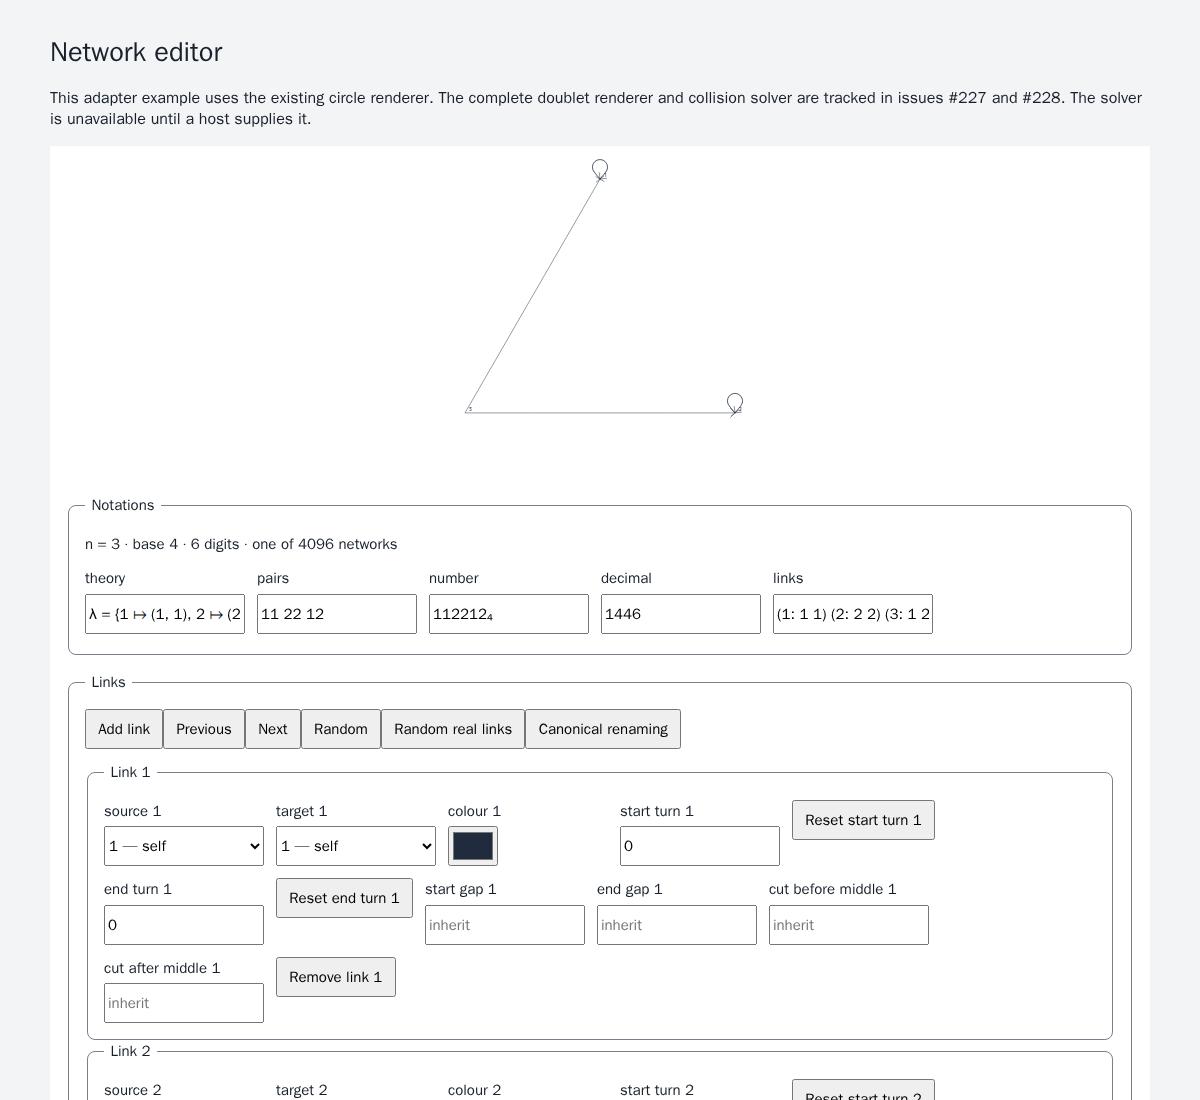
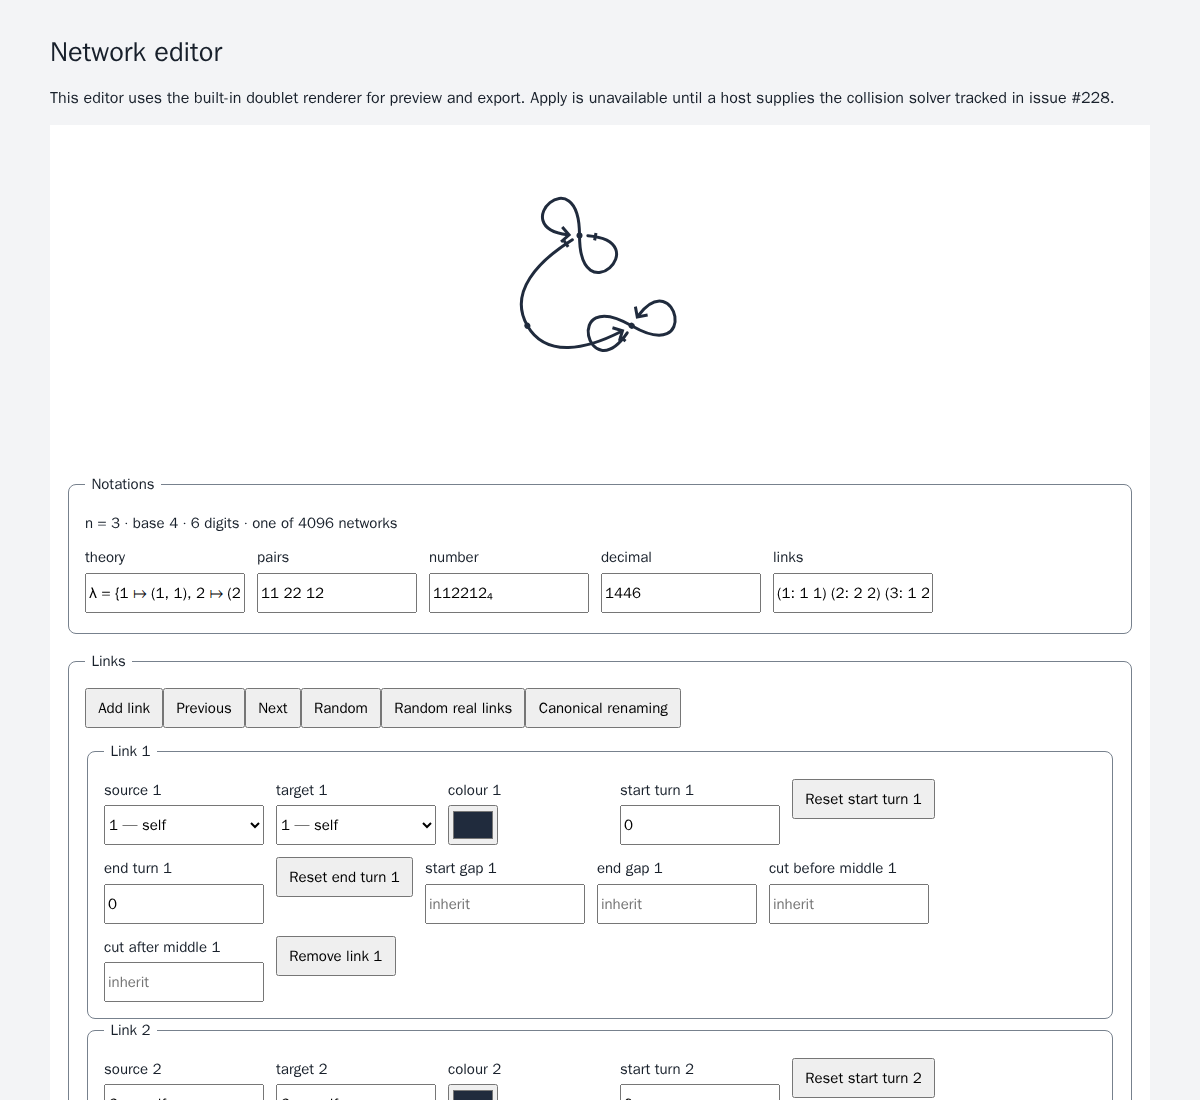
Bind the editor to the built-in doublet provider

diff --git a/packages/ui-components/src/links-view/network-editor/provider.js b/packages/ui-components/src/links-view/network-editor/provider.js
@@ -1,0 +1,93 @@
+import { formatLinks } from '@link-foundation/ui-core';
+import { createDoubletProvider } from '../doublet.js';
+import { normalize, fromOptions } from './options.js';
+import { networkOptionSchema } from './schema.js';
+
+/** Translate the editor vocabulary into the built-in renderer's nested LiNo. */
+export function rendererOptions(input, count) {
+  const options = normalize(input),
+    records = [],
+    groups = new Map();
+  for (const field of networkOptionSchema) {
+    if (
+      ['solver', 'palette'].includes(field.section) ||
+      options[field.key] === field.default
+    ) {
+      continue;
+    }
+    const [group, key] = field.key.split('.');
+    const entry = { id: key ?? group, values: [String(options[field.key])] };
+    if (!key) {
+      records.push(entry);
+    } else {
+      if (!groups.has(group)) {
+        const node = { id: group, values: [] };
+        groups.set(group, node);
+        records.push(node);
+      }
+      groups.get(group).values.push(entry);
+    }
+  }
+  const gaps = ['startGap', 'endGap', 'middleBefore', 'middleAfter'];
+  // These editor keys are represented by the provider's single gaps vector.
+  const filtered = records.filter((entry) => !gaps.includes(entry.id));
+  if (gaps.some((key) => options[key] !== normalize({})[key])) {
+    filtered.push({
+      id: 'gaps',
+      values: gaps.map((key) => String(options[key])),
+    });
+  }
+  for (const key of ['frame', 'order']) {
+    if (options[key]) {
+      filtered.push({ id: key, values: options[key].map(String) });
+    }
+  }
+  for (let i = 0; i < count; i++) {
+    const values = [];
+    if (options.turns[i]) {
+      values.push({ id: 'turns', values: options.turns[i].map(String) });
+    }
+    if (options.linkGaps[i]) {
+      values.push({
+        id: 'gaps',
+        values: options.linkGaps[i].map((v) => (v === null ? '~' : String(v))),
+      });
+    }
+    if (values.length) {
+      filtered.push({ values: ['link', String(i + 1), ...values] });
+    }
+  }
+  return formatLinks(filtered);
+}
+
+/** Built-in doublet provider for the editor's full persisted state vocabulary. */
+export function createNetworkEditorProvider(configuration = {}) {
+  const provider = createDoubletProvider(configuration);
+  return {
+    geometry(context) {
+      const options = fromOptions(context.input.options);
+      const frame = provider.geometry({
+        ...context,
+        input: {
+          ...context.input,
+          options: rendererOptions(options, context.input.items.length),
+        },
+      });
+      return { ...frame, linkColors: options.linkColors };
+    },
+    svg(context) {
+      let svg = provider.svg(context);
+      // The built-in renderer gives every link an identified group. Its paths
+      // and markers inherit currentColor, so one group attribute colors both.
+      context.frame.linkColors.forEach((color, i) => {
+        if (color) {
+          svg = svg.replace(
+            `<g data-doublet="${i + 1}">`,
+            `<g data-doublet="${i + 1}" color="${color}">`
+          );
+        }
+      });
+      return svg;
+    },
+  };
+}

diff --git a/packages/ui-components/tests/links-view/network-editor-provider.test.js b/packages/ui-components/tests/links-view/network-editor-provider.test.js
@@ -1,0 +1,57 @@
+import { it } from 'node:test';
+import assert from 'node:assert/strict';
+import { createNetworkPresentation } from '../../src/links-view/presentation.js';
+import {
+  createNetworkEditorProvider,
+  rendererOptions,
+} from '../../src/links-view/network-editor/provider.js';
+import {
+  normalize,
+  toOptions,
+} from '../../src/links-view/network-editor/options.js';
+import { readDoubletOptions } from '../../src/links-view/doublet.js';
+
+it('adapts renderer options and all per-link overrides without marking default markers explicit', async () => {
+  assert.equal(rendererOptions({}, 2), '');
+  assert.deepEqual(
+    readDoubletOptions(rendererOptions({}, 2), 2).end.explicit,
+    []
+  );
+  const options = normalize({
+    'start.shape': 'diamond',
+    'background.type': 'linear',
+    'caption.text': 'Quoted "text"',
+    tension: 0.8,
+    startGap: 0.2,
+    frame: [2, 10, -5],
+    turns: [[30, -30]],
+    linkGaps: [[0.1, null, 5, null]],
+    linkColors: ['#abcdef'],
+    order: [2, 1],
+    passes: 5,
+  });
+  const parsed = readDoubletOptions(rendererOptions(options, 2), 2);
+  assert.deepEqual(parsed.links[1].turns, [30, -30]);
+  assert.deepEqual(parsed.links[1].gaps, [0.1, null, 5, null]);
+  assert.equal(parsed.start.shape, 'diamond');
+  assert.equal(parsed.background.type, 'linear');
+  assert.equal(parsed.caption.text, 'Quoted "text"');
+  assert.deepEqual(parsed.frame, [2, 10, -5]);
+  assert.deepEqual(parsed.order, [2, 1]);
+  assert.deepEqual(parsed.gaps, [0.2, 0.08, 0, 0]);
+  const presentation = createNetworkPresentation(createNetworkEditorProvider());
+  try {
+    await presentation.update({
+      items: [
+        [2, 2],
+        [1, 1],
+      ],
+      options: toOptions(options),
+    });
+    assert.match(presentation.toSvg(), /data-doublet="1" color="#abcdef"/u);
+    assert.equal(presentation.snapshot().frame.options.tension, 0.8);
+    assert.deepEqual(presentation.snapshot().frame.transform, [2, 10, -5]);
+  } finally {
+    presentation.dispose();
+  }
+});

diff --git a/packages/ui-components/examples/network-editor.js b/packages/ui-components/examples/network-editor.js
@@ -1,48 +1,13 @@
 import { createNetworkPresentation } from '../src/links-view/presentation.js';
 import { createNetworkEditor } from '../src/links-view/network-editor/editor.js';
 import {
-  fromOptions,
   toOptions,
   fromParams,
 } from '../src/links-view/network-editor/options.js';
 import { decode, indexOf } from '../src/links-view/configurations.js';
-import { buildNetwork } from '../src/links-view/network-model.js';
-import { circle } from '../src/links-view/layouts/circle.js';
-import { networkToSvg } from '../src/links-view/export.js';
-import { linkColors } from '../src/links-view/tokens.js';
+import { createNetworkEditorProvider } from '../src/links-view/network-editor/provider.js';
 
-// This example adapts the existing public renderer; it does not emulate #227.
-const presentation = createNetworkPresentation({
-  geometry({ input }) {
-    const options = fromOptions(input.options);
-    return {
-      positions: circle(buildNetwork(input.items), {
-        width: options.width,
-        height: options.height,
-      }),
-      pins: new Map(),
-      bounds: { x: 0, y: 0, width: options.width, height: options.height },
-    };
-  },
-  svg({ input, frame }) {
-    const options = fromOptions(input.options);
-    const colors = {
-      ...linkColors(),
-      line: options.color,
-      source: options.color,
-      target: options.color,
-      background:
-        options['background.type'] === 'transparent'
-          ? 'transparent'
-          : options['background.color'],
-    };
-    return networkToSvg(buildNetwork(input.items), frame.positions, {
-      width: options.width,
-      height: options.height,
-      colors,
-    });
-  },
-});
+const presentation = createNetworkPresentation(createNetworkEditorProvider());
 const params = new globalThis.URLSearchParams(globalThis.location.search);
 const links = decode(params.get('code') || '11 22 12');
 await presentation.update({

diff --git a/packages/ui-components/examples/network-editor.html b/packages/ui-components/examples/network-editor.html
@@ -59,9 +59,9 @@
     <main>
       <h1>Network editor</h1>
       <p>
-        This adapter example uses the existing circle renderer. The complete
-        doublet renderer and collision solver are tracked in issues #227 and
-        #228. The solver is unavailable until a host supplies it.
+        This editor uses the built-in doublet renderer for preview and export.
+        Apply is unavailable until a host supplies the collision solver tracked
+        in issue #228.
       </p>
       <div id="preview" role="img" aria-label="Network preview"></div>
       <div id="editor"></div>

diff --git a/packages/ui-components/src/links-view/network-editor/index.d.ts b/packages/ui-components/src/links-view/network-editor/index.d.ts
@@ -1,6 +1,7 @@
 import type {
   NetworkPresentation,
   NetworkPresentationSnapshot,
+  NetworkPresentationProvider,
 } from '../index.js';
 import type { Configuration } from '../configurations.js';
 
@@ -105,3 +106,7 @@ export function syncNetworkUrl(
   presentation: NetworkPresentation,
   settings: NetworkUrlSyncSettings
 ): { flush(): void; dispose(): void };
+
+export function createNetworkEditorProvider(configuration?: {
+  debug?: (message: string, data?: object) => void;
+}): NetworkPresentationProvider;

diff --git a/packages/ui-components/src/links-view/index.js b/packages/ui-components/src/links-view/index.js
@@ -128,3 +128,5 @@ export {
   DOUBLET_MARKERS,
   readDoubletOptions,
 } from './doublet.js';
+
+export { createNetworkEditorProvider } from './network-editor/provider.js';

diff --git a/packages/ui-components/NETWORK-EDITOR.md b/packages/ui-components/NETWORK-EDITOR.md
@@ -9,11 +9,18 @@ for a prepared `createNetworkPresentation` instance. It returns `snapshot()`,
 ```js
 import {
   createNetworkEditor,
-  networkOptionsFromParams,
-  networkOptionsToLino,
+  createNetworkEditorProvider,
+  createNetworkPresentation,
 } from '@link-foundation/ui-components/links-view';
 
-// Prepare your provider with sequential 1-based doublet item IDs first.
+const presentation = createNetworkPresentation(createNetworkEditorProvider());
+await presentation.update({
+  items: [
+    [1, 1],
+    [2, 2],
+    [1, 2],
+  ],
+});
 const editor = createNetworkEditor(document.getElementById('editor'), {
   presentation,
   locale: 'en',
@@ -61,10 +68,16 @@ vocabulary. An existing provider with another LiNo vocabulary must supply both
 intentionally keeps provider text opaque. Renderer options, solver inputs and
 per-link colours are not silently injected into another provider's grammar.
 
-The example adapts the existing circle renderer's supported dimensions and
-colours. It does **not** claim to implement the continuous doublet geometry or
-collision search in #227/#228. Those remain independent upstream work. All
-editor options remain in the presentation input for a complete provider to use.
+`createNetworkEditorProvider()` adapts the built-in doublet renderer to this
+persisted vocabulary. It translates groups, global gaps, per-link turns/gaps,
+frames and circle order into the renderer's nested LiNo, leaving default marker
+fields implicit so tip compensation is preserved. Per-link colours apply to the
+identified SVG groups, whose paths and markers inherit currentColor. Preview
+and raster exports use that same markup. The example uses this provider.
+
+The collision algorithm in #228 remains independent upstream work. Hosts supply
+a solver callback; the editor does not substitute an algorithm or simulated
+collision counts when none is installed.
 
 ## Editing and styles
 

diff --git a/experiments/issue-230/plan.md b/experiments/issue-230/plan.md
@@ -47,3 +47,9 @@ the Chromium test configuration used its explicit executable path. No caches
 were removed. The first full npm run ignored a trailing concurrency flag and
 approached the container memory cap; it was stopped. Final checks use CPU
 affinity to constrain Node's default parallelism.
+
+During final verification, #227 merged into main at c1016ba. Main is merged into
+this branch, and createNetworkEditorProvider now binds all renderer options and
+per-link colours to the actual built-in doublet provider. Its integration test
+checks parsed options, explicit-marker defaults, pinned geometry and SVG colour.
+The example and review screenshot use the actual doublet provider.
